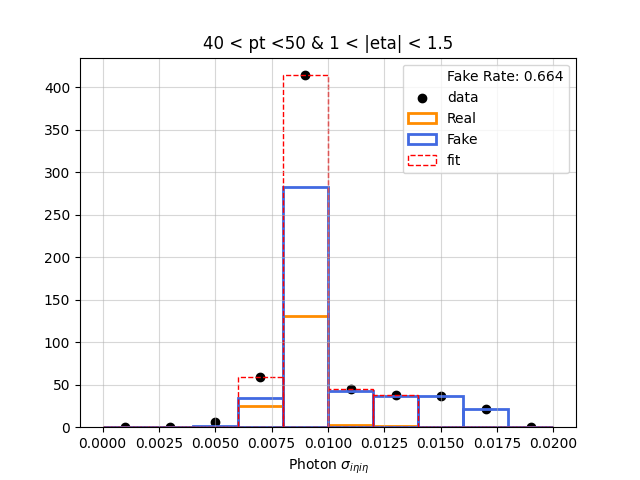
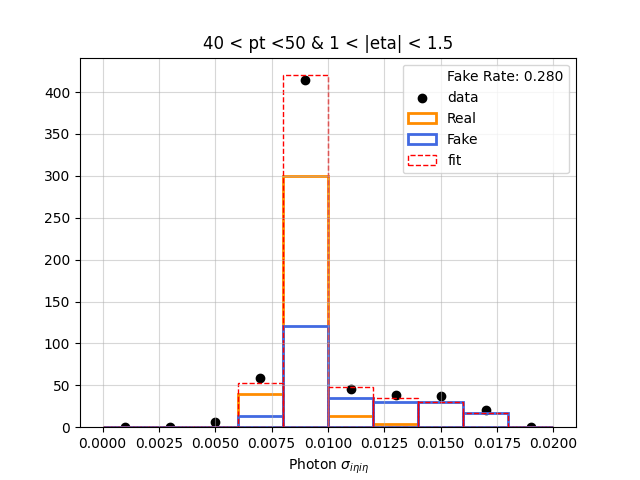
Fit template by template

diff --git a/Coffea_WZG/Fitting/Fit.py b/Coffea_WZG/Fitting/Fit.py
@@ -122,7 +122,8 @@ def make_json(data, fake, real):
 					{
 						"data": real,
 						"modifiers": [
-							{"name": "scale_real", "type": "shapefactor", "data": None},
+							#{"name": "scale_real", "type": "shapefactor", "data": None},
+							{"name": "scale_real", "type": "normfactor", "data": None},
 							{"name": "dummy", "type": "normfactor", "data": None},
 						],
 						"name": "real",
@@ -130,7 +131,8 @@ def make_json(data, fake, real):
 					{
 						"data": fake,
 						"modifiers": [
-							{"name": "scale_fake", "type": "shapefactor", "data": None}
+							#{"name": "scale_fake", "type": "shapefactor", "data": None}
+							{"name": "scale_fake", "type": "normfactor", "data": None}
 						],
 						"name": "fake",
 					},
@@ -207,7 +209,7 @@ if __name__ == "__main__":
 	import argparse
 	parser = argparse.ArgumentParser()
 	parser.add_argument('infile_name', type=str,
-            help="python Fit.py PT_1_eta_1.npy")
+			help="python Fit.py PT_1_eta_1.npy")
 	args = parser.parse_args()
 	
 
@@ -244,44 +246,35 @@ if __name__ == "__main__":
 	fit_results = pyhf.infer.mle.fit(data, model)
 
 	# Calculate Scale Factor
-	SF_real = []
-	SF_fake = []
-
+	SF_real = 0
+	SF_fake = 0
+	
 	for i, label in enumerate(get_parameter_names(model)):
 		print(f"{label}: {fit_results[i]}")
 
 		if label.startswith("scale_real"):
-			SF_real.append(fit_results[i])
+			SF_real = fit_results[i]
 		elif label.startswith("scale_fake"):
-			SF_fake.append(fit_results[i])
+			SF_fake = fit_results[i]
 
 	print("Real template SF: ", SF_real)
 	print("Fake template SF: ", SF_fake)
 
+	Fake_template['contents'] = Fake_template['contents'] * SF_fake
+	Real_template['contents'] = Real_template['contents'] * SF_real
+	Fit_data = Fake_template['contents'] + Real_template['contents']
+	## Apply Scale Factor
+	#start = idx[0]
+	#end = idx[-1] + 1
 
-	# Apply Scale Factor
-	start = idx[0]
-	end = idx[-1] + 1
-
-	Fit_data = np.zeros(len(Fake_template["contents"]))
-	Fit_data[start:end] = (
-		Fake_template["contents"][start:end] * SF_fake
-		+ Real_template["contents"][start:end] * SF_real
-	)
-	
-	Fake_template['contents'][start:end] = Fake_template['contents'][start:end] * SF_fake
-	Real_template['contents'][start:end] = Real_template['contents'][start:end] * SF_real
-
-	
+	#Fit_data = np.zeros(len(Fake_template["contents"]))
+	#Fit_data[start:end] = (
+	#	Fake_template["contents"][start:end] * SF_fake
+	#	+ Real_template["contents"][start:end] * SF_real
+	#)
+	#
+	#Fake_template['contents'][start:end] = Fake_template['contents'][start:end] * SF_fake
+	#Real_template['contents'][start:end] = Real_template['contents'][start:end] * SF_real
 	limit = set_limit(infile_name)
 	fake_frac = fake_fraction(data_template,Fake_template,limit)
-
-
 	draw(infile_name, data_template, Fake_template, Real_template, Fit_data,fake_frac)
-
-
-
-
-
-
-
